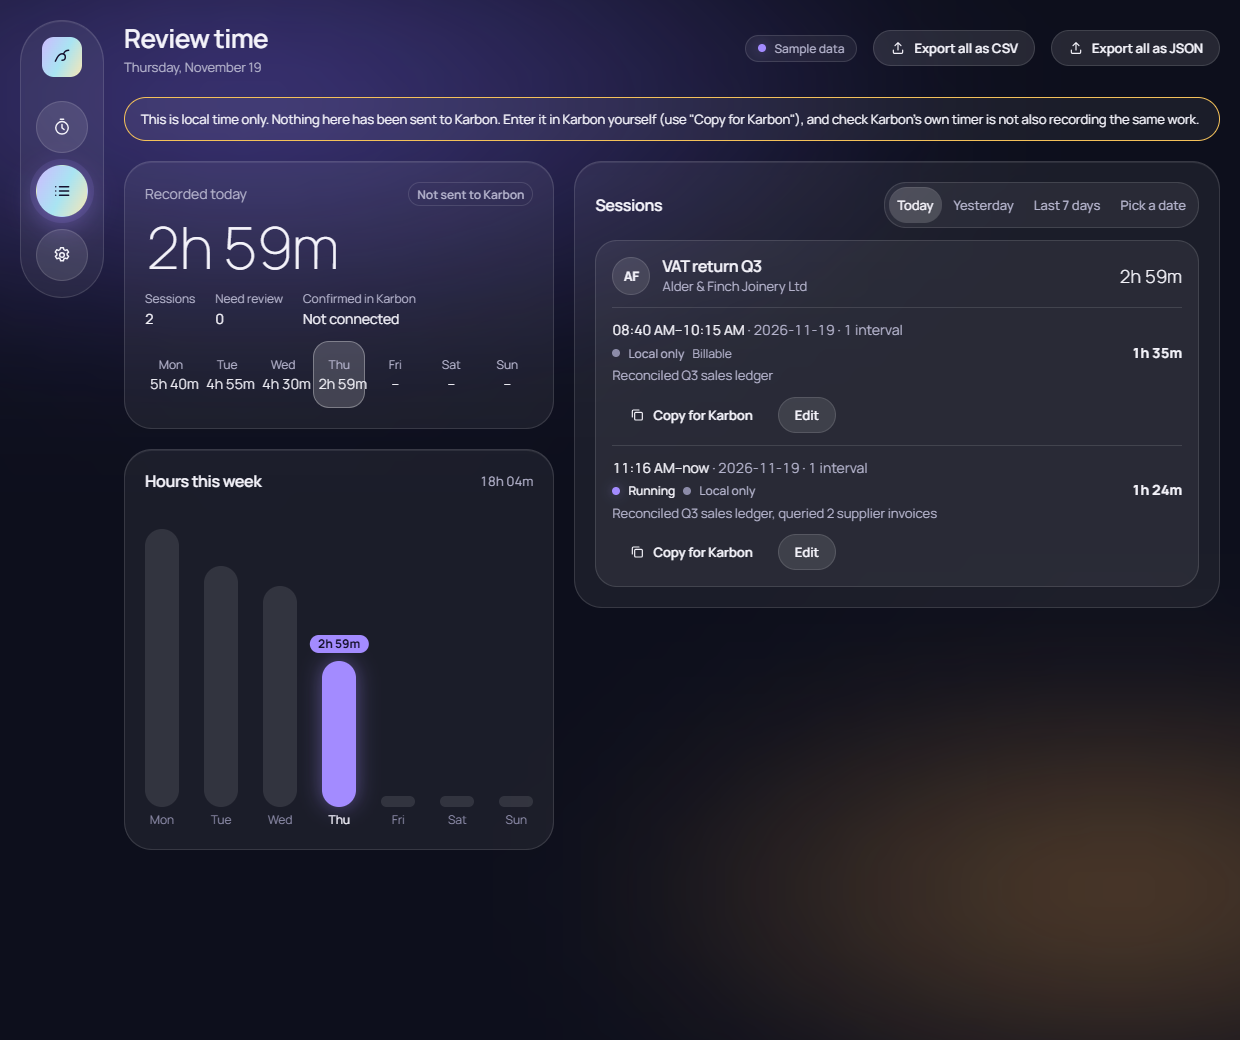
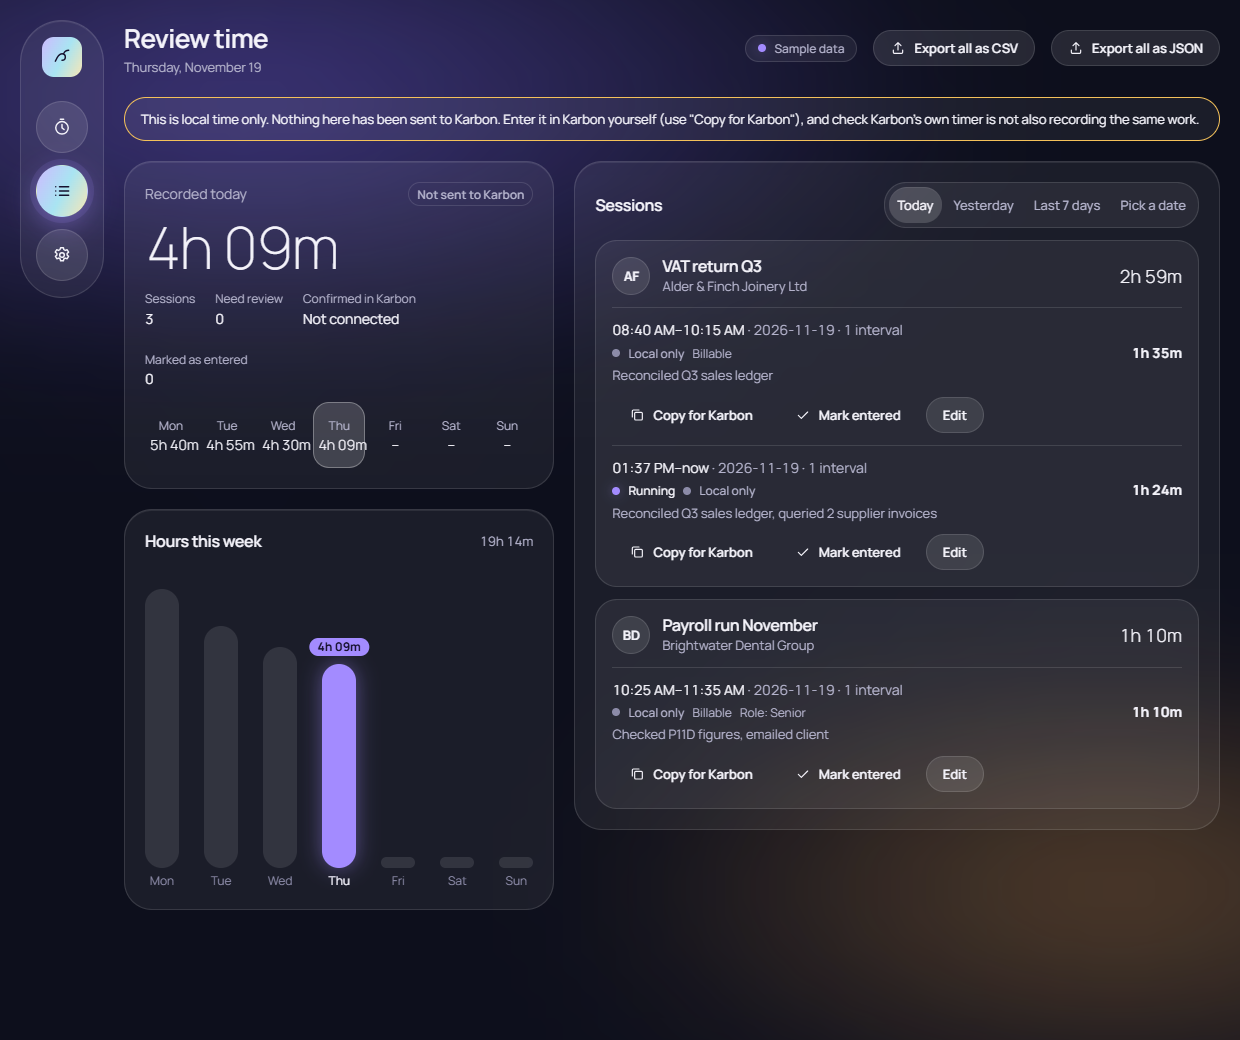
docs: Karbon setup per Karbon's guide and Karbon-mode screenshots

diff --git a/README.md b/README.md
@@ -22,15 +22,15 @@ Requires Chrome 123 or newer. If your organization manages Chrome, Developer mod
 
 Karbon has no "sign in with Karbon" for other apps, so HourHop uses the same two keys any Karbon API integration uses. Your firm's Karbon admin sets this up once:
 
-1. Register a developer account at [developers.karbonhq.com/register](https://developers.karbonhq.com/register) and ask Karbon to enable API v3 for the firm (Karbon turns it on by request). Karbon sends an **Application ID** for the registered application.
-2. In Karbon, go to **Settings**, then **Connected Apps**, then **API Applications**, open the application and copy its **AccessKey**.
+1. Register a developer account at [developers.karbonhq.com/register](https://developers.karbonhq.com/register) and ask Karbon to enable API v3 for the firm (Karbon turns it on by request). Karbon sends the **Application ID** by secure message when the application is registered.
+2. In Karbon, go to **Settings**, then **Connected Apps**, then **API Applications**, and open the application. Both keys are listed there: the Application ID (sent as the bearer token) and the **AccessKey**.
 3. Share the Application ID and AccessKey with the colleagues who will use HourHop, the way your firm shares other credentials.
 
-Each colleague then opens HourHop **Settings**, enters the Application ID, the AccessKey and the email they sign in to Karbon with, and clicks **Connect Karbon**. HourHop checks the keys, finds their Karbon user and switches to Karbon mode.
+Each colleague then opens HourHop **Settings**, enters the Application ID, the AccessKey and the email they sign in to Karbon with, and clicks **Connect Karbon**. HourHop checks the keys, finds their Karbon user and switches to Karbon mode. If the email is not found, type it exactly as it appears on their Karbon user profile.
 
 What happens next:
 
-- The work items assigned to you that aren't completed appear in the side panel, grouped by client, with Karbon's statuses and due dates. They refresh automatically every 15 minutes while HourHop is open, or straight away with **Refresh**.
+- The work items assigned to you that aren't completed (Planned, Ready To Start, In Progress and Waiting) appear in the side panel, grouped by client, with Karbon's statuses and due dates. Completed work is never downloaded. They refresh automatically every 15 minutes while HourHop is open, or straight away with **Refresh**.
 - Budgets come from each work item's Karbon estimates: the work item total and your own allocation, with time already recorded in Karbon. Hourly rates are never shown. Time you have tracked in HourHop but not yet entered in Karbon shows separately; it is never added to Karbon's figures.
 - After you paste a session into Karbon, press **Mark entered** in Review so it no longer counts as unentered time.
 
@@ -38,7 +38,7 @@ Please know before connecting:
 
 - **The keys can read the whole firm's Karbon data.** HourHop only asks Karbon for your assigned work and only shows you that, but the keys themselves are not limited to you. Treat them like a password. They are stored only in this browser profile, are sent only to `https://api.karbonhq.com`, are never shown again after saving, and are removed by **Disconnect** or **Delete all data**.
 - **HourHop never writes to Karbon.** Every request is a read (`GET`), enforced by tests on the shipped build.
-- **Not yet verified against a live Karbon account.** The integration is built and tested against Karbon's published API specification ([karbonhq/karbon-api-reference](https://github.com/karbonhq/karbon-api-reference), October 2026) with a simulated Karbon. If connecting fails, the message says why (rejected keys, API access not enabled, email not found, network); please open an issue with that message.
+- **Not yet verified against a live Karbon account.** The integration is built and tested against Karbon's published API specification ([karbonhq/karbon-api-reference](https://github.com/karbonhq/karbon-api-reference), version of 29 October 2026, last checked 19 November 2026) with a simulated Karbon that behaves as that specification describes. If connecting fails, the message says why (rejected keys, API access not enabled, email not found, network); please open an issue with that message.
 
 ## Using it day to day
 
@@ -60,7 +60,17 @@ Without Karbon keys, add each client and work item once with **Add work** (Track
 
 ## Screenshots
 
-All screenshots are from the real extension with made-up sample data.
+All screenshots are from the real extension with made-up data. The Karbon ones use a simulated Karbon, never a real account.
+
+<table>
+  <tr>
+    <td align="center" width="33%"><img src="docs/images/first-run.png" alt="First run: Track locally, Connect Karbon or Try sample data"><br><sub>First run</sub></td>
+    <td align="center" width="33%"><img src="docs/images/karbon-side-panel.png" alt="Side panel in Karbon mode: synced from Karbon, VAT return Q3 running with 2h 35m of a 6h Karbon budget, and assigned work with Karbon statuses and due dates"><br><sub>Karbon mode</sub></td>
+    <td align="center" width="33%"><img src="docs/images/karbon-settings.png" alt="Settings after connecting: connected as Pat Example, five open work items, Refresh now and Disconnect"><br><sub>Connected to Karbon</sub></td>
+  </tr>
+</table>
+
+<p align="center"><img src="docs/images/karbon-connect.png" alt="Settings with the Connect Karbon form: Application ID, AccessKey and Karbon email"><br><sub>Connect Karbon</sub></p>
 
 <table>
   <tr>
@@ -71,7 +81,6 @@ All screenshots are from the real extension with made-up sample data.
 </table>
 
 <p align="center"><img src="docs/images/review.png" alt="Review page: today's total, the week's day strip, hours this week chart and sessions with Copy for Karbon and Edit"><br><sub>Review time</sub></p>
-<p align="center"><img src="docs/images/settings.png" alt="Settings page: appearance, data mode, Karbon connection status, your data and about"><br><sub>Settings</sub></p>
 
 ## Privacy
 
